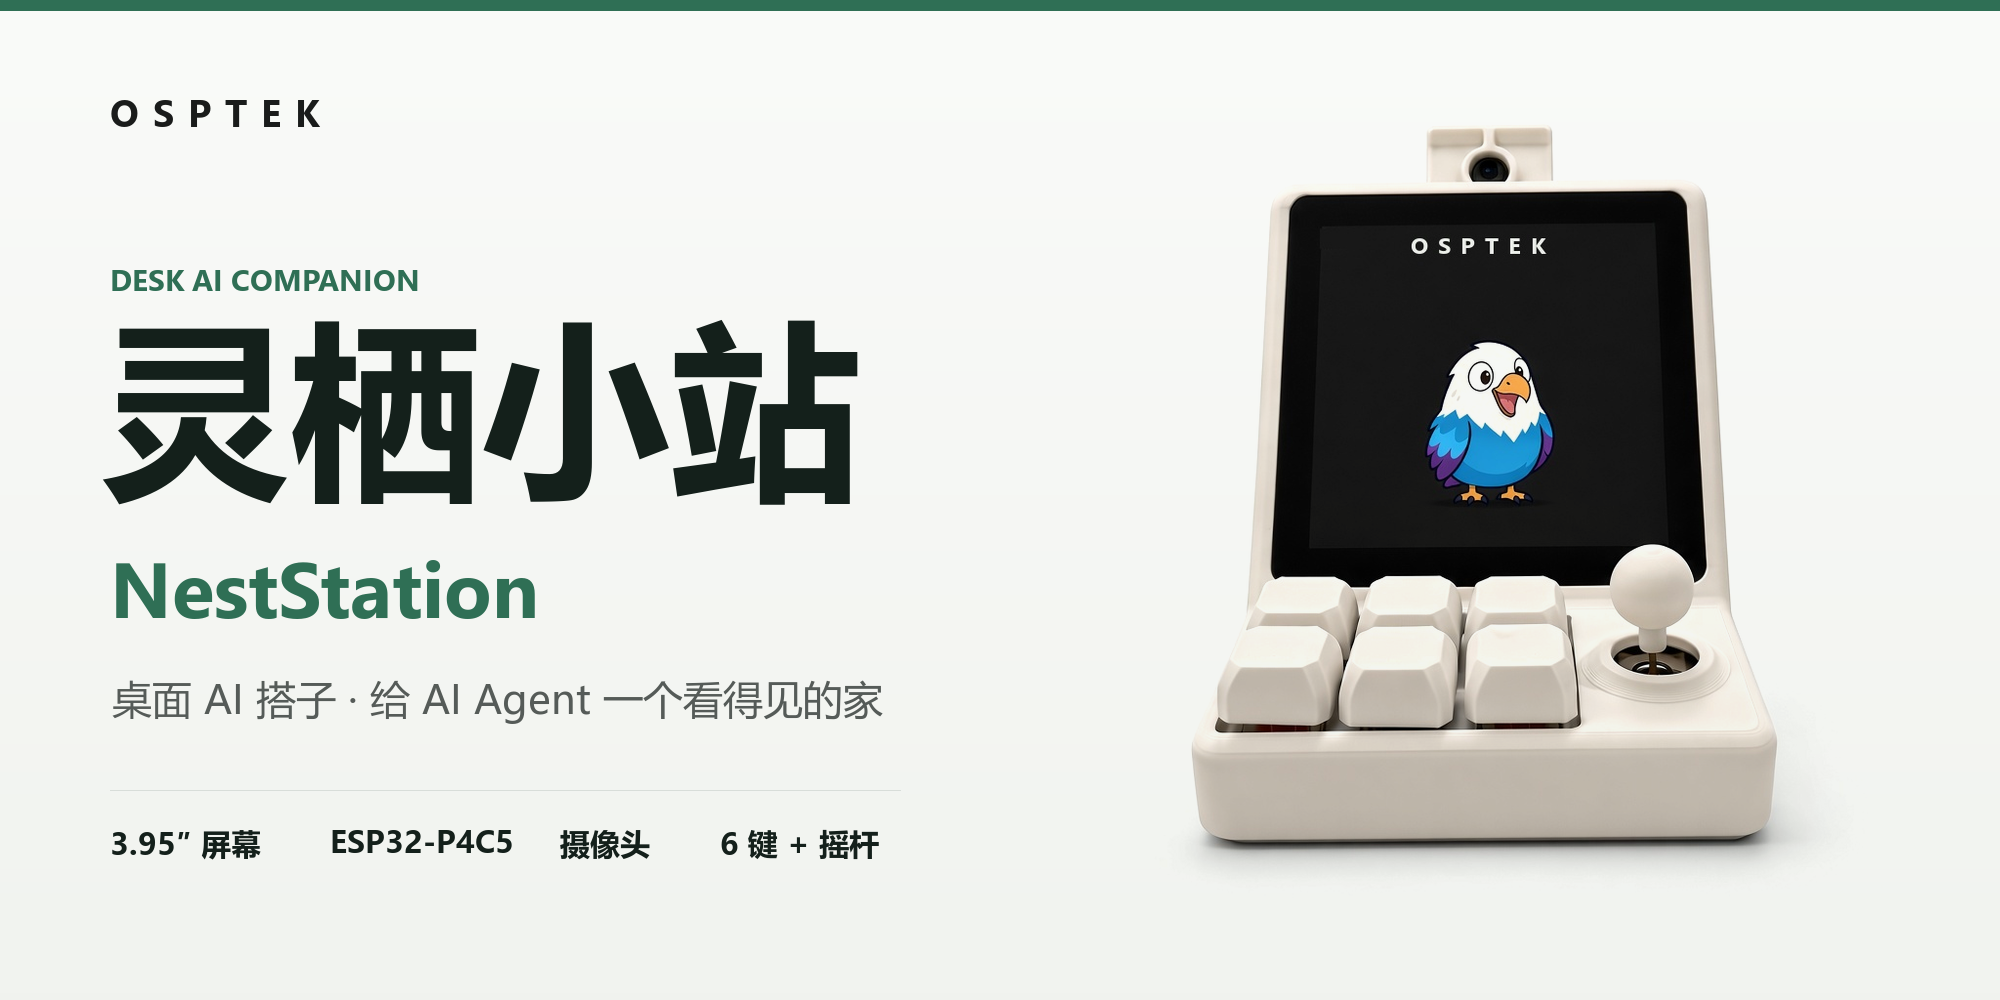
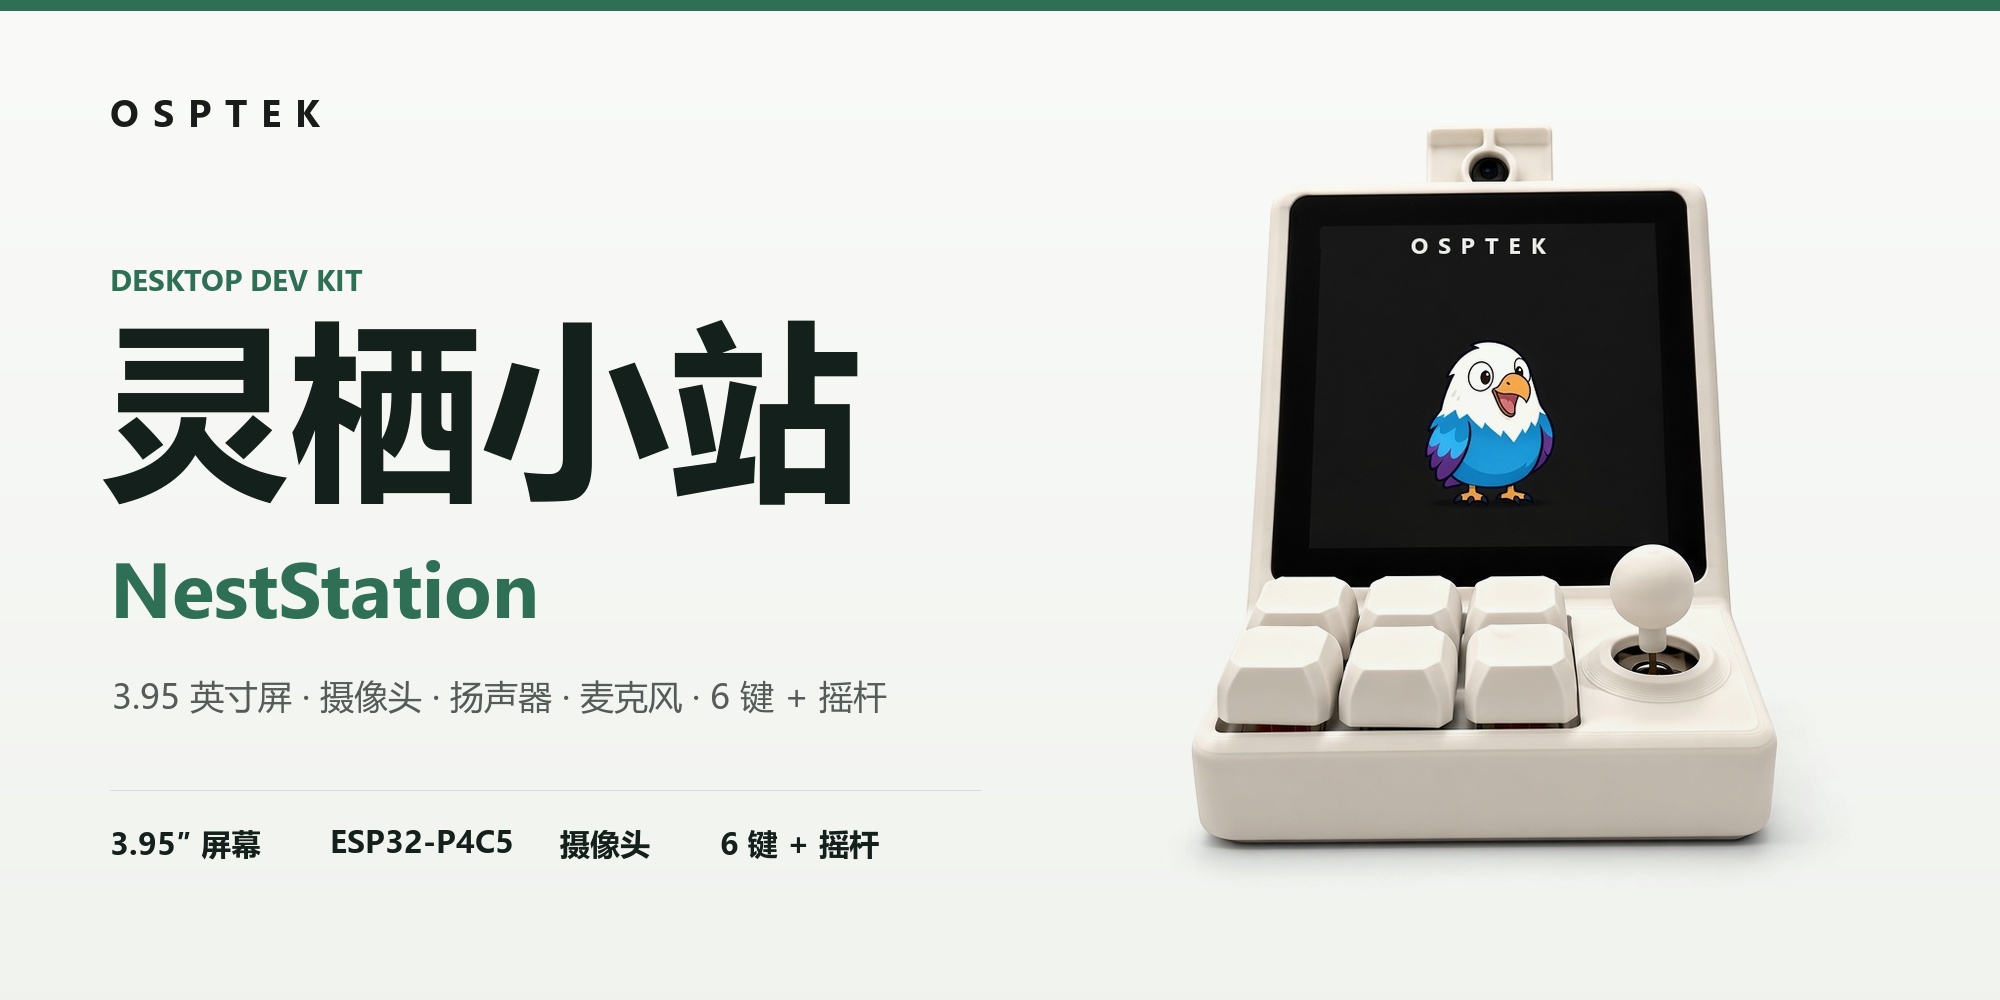
docs: describe NestStation hardware, including speaker and mic

Changed region(s): [[0.062, 0.682, 0.465, 0.744], [0.093, 0.248, 0.217, 0.31]]

diff --git a/README_EN.md b/README_EN.md
@@ -1,15 +1,17 @@
 # NestStation (灵栖小站)
 
-OSPTEK Desk AI Companion · ESP32-P4C5 · 3.95-inch display · camera · 6 keys + joystick
+OSPTEK desktop development kit · ESP32-P4C5 · 3.95-inch display · camera · speaker · microphone · 6 keys + joystick
 
 <p align="center">
-  <img src="docs/images/banner_en.png" alt="OSPTEK NestStation desk AI companion" width="100%">
+  <img src="docs/images/banner_en.png" alt="OSPTEK NestStation desktop development kit" width="100%">
 </p>
 
 <p align="center">
   <img src="https://img.shields.io/badge/MCU-ESP32--P4C5-2F6F55?style=flat-square&labelColor=14201B" alt="MCU">
   <img src="https://img.shields.io/badge/Display-3.95%22-2F6F55?style=flat-square&labelColor=14201B" alt="Display">
   <img src="https://img.shields.io/badge/Camera-onboard-2F6F55?style=flat-square&labelColor=14201B" alt="Camera">
+  <img src="https://img.shields.io/badge/Speaker-NS4150-2F6F55?style=flat-square&labelColor=14201B" alt="Speaker">
+  <img src="https://img.shields.io/badge/Mic-onboard-2F6F55?style=flat-square&labelColor=14201B" alt="Mic">
   <img src="https://img.shields.io/badge/Input-6%20keys%20%2B%20joystick-2F6F55?style=flat-square&labelColor=14201B" alt="Input">
 </p>
 
@@ -23,7 +25,7 @@ OSPTEK Desk AI Companion · ESP32-P4C5 · 3.95-inch display · camera · 6 keys 
 
 NestStation (灵栖小站) is an OSPTEK desktop development kit; this repository is `devkit-p4c5_station_3.95`.
 
-It is built on the [ESP32-P4C5-Module dev board](https://github.com/osptek/devboard-esp32p4c5_module), with a 3.95-inch display, a camera on top, and six mechanical keys plus a joystick on the front. The screen is tilted slightly backward so it is easy to see on a desk. The body is white, with sound holes on the back.
+It is built on the [ESP32-P4C5-Module dev board](https://github.com/osptek/devboard-esp32p4c5_module), with a 3.95-inch display, a camera on top, six mechanical keys plus a joystick on the front, a speaker, and an onboard microphone. The screen is tilted slightly backward so it is easy to see on a desk. The body is white, with the speaker opening on the back.
 
 <p align="center">
   <img src="images/product.jpg" alt="NestStation front view" width="45%">
@@ -43,6 +45,8 @@ It is built on the [ESP32-P4C5-Module dev board](https://github.com/osptek/devbo
 | MCU | ESP32-P4C5 ([ESP32-P4C5-Module dev board](https://github.com/osptek/devboard-esp32p4c5_module)) |
 | Display | 3.95-inch, mounted with a slight backward tilt |
 | Camera | On top of the body |
+| Speaker | ES8311 codec + NS4150 3 W Class-D amp on the carrier, MX1.25-2P connector, opening on the back |
+| Microphone | Onboard silicon mic LMA3729T421-OA1 on the carrier |
 | Input | 6 mechanical keys + 1 joystick |
 | Enclosure | White body |
 

diff --git a/README.md b/README.md
@@ -1,15 +1,17 @@
 # 灵栖小站 NestStation
 
-OSPTEK 桌面 AI 搭子 · ESP32-P4C5 主控 · 3.95 英寸屏 · 摄像头 · 6 键 + 摇杆
+OSPTEK 桌面开发套件 · ESP32-P4C5 主控 · 3.95 英寸屏 · 摄像头 · 扬声器 · 麦克风 · 6 键 + 摇杆
 
 <p align="center">
-  <img src="docs/images/banner.png" alt="OSPTEK 灵栖小站 NestStation 桌面 AI 搭子" width="100%">
+  <img src="docs/images/banner.png" alt="OSPTEK 灵栖小站 NestStation 桌面开发套件" width="100%">
 </p>
 
 <p align="center">
   <img src="https://img.shields.io/badge/MCU-ESP32--P4C5-2F6F55?style=flat-square&labelColor=14201B" alt="MCU">
   <img src="https://img.shields.io/badge/Display-3.95%22-2F6F55?style=flat-square&labelColor=14201B" alt="Display">
   <img src="https://img.shields.io/badge/Camera-onboard-2F6F55?style=flat-square&labelColor=14201B" alt="Camera">
+  <img src="https://img.shields.io/badge/Speaker-NS4150-2F6F55?style=flat-square&labelColor=14201B" alt="Speaker">
+  <img src="https://img.shields.io/badge/Mic-onboard-2F6F55?style=flat-square&labelColor=14201B" alt="Mic">
   <img src="https://img.shields.io/badge/Input-6%20keys%20%2B%20joystick-2F6F55?style=flat-square&labelColor=14201B" alt="Input">
 </p>
 
@@ -23,7 +25,7 @@ OSPTEK 桌面 AI 搭子 · ESP32-P4C5 主控 · 3.95 英寸屏 · 摄像头 · 6
 
 灵栖小站（NestStation）是 OSPTEK 推出的桌面开发套件，对应仓库 `devkit-p4c5_station_3.95`。
 
-整机基于 [ESP32-P4C5-Module 开发板](https://github.com/osptek/devboard-esp32p4c5_module)，搭载 3.95 英寸屏幕，顶部带摄像头，正面有 6 个机械按键和 1 个摇杆。屏幕微微后仰，摆在桌面上抬头即可看见；白色机身，背面留有出音孔。
+整机基于 [ESP32-P4C5-Module 开发板](https://github.com/osptek/devboard-esp32p4c5_module)，搭载 3.95 英寸屏幕，顶部带摄像头，正面有 6 个机械按键和 1 个摇杆，并带扬声器和板载麦克风。屏幕微微后仰，摆在桌面上抬头即可看见；白色机身，背面留有出音孔。
 
 <p align="center">
   <img src="images/product.jpg" alt="灵栖小站正面" width="45%">
@@ -43,6 +45,8 @@ OSPTEK 桌面 AI 搭子 · ESP32-P4C5 主控 · 3.95 英寸屏 · 摄像头 · 6
 | 主控 | ESP32-P4C5（[ESP32-P4C5-Module 开发板](https://github.com/osptek/devboard-esp32p4c5_module)） |
 | 显示屏 | 3.95 英寸，微微后仰安装 |
 | 摄像头 | 机身顶部 |
+| 扬声器 | 主控板 ES8311 编解码 + NS4150 功放（3 W D 类），MX1.25-2P 接口，背面出音 |
+| 麦克风 | 主控板板载硅麦 LMA3729T421-OA1 |
 | 输入 | 6 个机械按键 + 1 个摇杆 |
 | 外壳 | 白色机身 |
 
